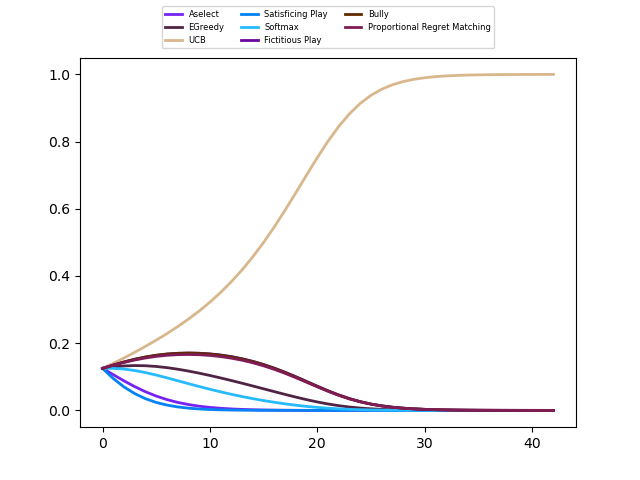
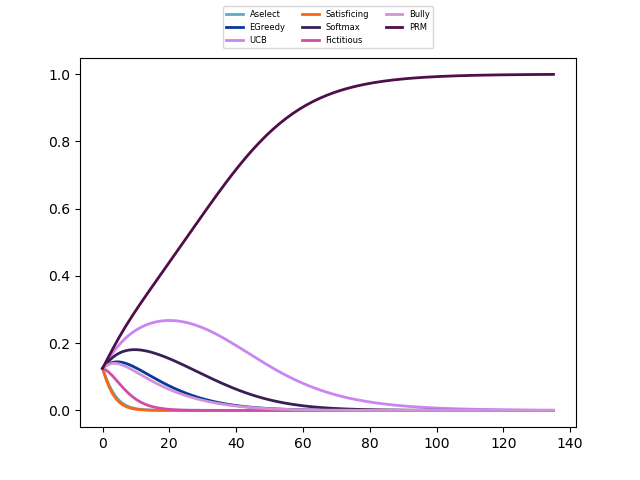
Project done, minor refinements needed

diff --git a/GrandTable.py b/GrandTable.py
@@ -95,42 +95,25 @@ class GrandTable:
         path = path = os.path.dirname(__file__) + "\\grand_tables\\" + filename + ".txt"
         f = open(path, "w+")
 
-        f.write("\\begin{tabular}{|" + "l|" * (len(self.col_strategies)+2) + "}\n")
+        f.write("\\begin{tabular}{|" + "c|" * (len(self.col_strategies)+2) + "}\n")
         f.write("\\hline\n")
 
         header = ""
         for strat in self.col_strategies:
-            header += " & " + strat.name
-        header += " & MEAN \\\\ \\hline \n"
+            header += " & \\textit{" + strat.name + "}"
+        header += " & \\textbf{MEAN} \\\\ \\hline \n"
         f.write(header)
 
         for i, row in enumerate(self.grand_table):
             # Add the name of the strategy to the row.
-            out = self.row_strategies[i].name
+            out = "\\textit{" + self.row_strategies[i].name + "}"
             for score in row:
-                out += " & " + str(round(score, 3))
-            out += " & " + str(round(mean(row), 3)) + " \\\\ \\hline \n"
+                out += " & " + str(round(score, 2))
+            out += " & " + str(round(mean(row), 2)) + " \\\\ \\hline \n"
             f.write(out)
 
         f.write("\\end{tabular}")
-
-
-
-
-        '''
-        \begin{tabular}{|l|l|l|l|l|l|l|l|l|l|}
-        \hline
-         &  &  &  &  &  &  &  &  &  \\ \hline
-         &  &  &  &  &  &  &  &  &  \\ \hline
-         &  &  &  &  &  &  &  &  &  \\ \hline
-         &  &  &  &  &  &  &  &  &  \\ \hline
-         &  &  &  &  &  &  &  &  &  \\ \hline
-         &  &  &  &  &  &  &  &  &  \\ \hline
-         &  &  &  &  &  &  &  &  &  \\ \hline
-         &  &  &  &  &  &  &  &  &  \\ \hline
-         &  &  &  &  &  &  &  &  &  \\ \hline
-        \end{tabular}
-        '''
+        f.close()
 
 
     # Methods to play all games for the specified number of rounds and handle the restarts, can go here.
@@ -151,6 +134,7 @@ class GrandTable:
                     game.initialize(game.matrix_suite)
                     if restart > 0:  # The first matrix is already initialised
                         game.matrix_suite.generate_new_payoff_matrix()
+                        game.initialize(game.matrix_suite)
                     payoff = game.play(self.rounds)
                     self.grand_table[row_strategy][col_strategy] += payoff
 

diff --git a/Strategies.py b/Strategies.py
@@ -248,7 +248,7 @@ class Satisficing(Strategy):
     past_payoffs: List[Payoff]
 
     def __init__(self):
-        self.name = "Satisficing Play"
+        self.name = "Satisficing"
 
     def initialize(self, matrix_suite: MatrixSuite, player: str) -> None:
         self.actions = matrix_suite.get_actions(player)
@@ -333,7 +333,7 @@ class FictitiousPlay(Strategy):
     matrix_suite: MatrixSuite
 
     def __init__(self):
-        self.name = "Fictitious Play"
+        self.name = "Fictitious"
 
     def initialize(self, matrix_suite: MatrixSuite, player: str) -> None:
         # TODO: description
@@ -405,7 +405,7 @@ class ProportionalRegretMatching(Strategy):
     matrix_suite: MatrixSuite
 
     def __init__(self):
-        self.name = "Proportional Regret Matching"
+        self.name = "PRM"
 
     def initialize(self, matrix_suite: MatrixSuite, player: str) -> None:
         # TODO: description
@@ -475,7 +475,7 @@ class EFictitiousPlay(Strategy):
     payoff_history: List[Payoff]
 
     def __init__(self):
-        self.name = "EFictitiousPlay"
+        self.name = "EFictitious"
 
     def initialize(self, matrix_suite: MatrixSuite, player: str) -> None:
         # TODO: description

diff --git a/ReplicatorDynamic.py b/ReplicatorDynamic.py
@@ -28,18 +28,18 @@ class ReplicatorDynamic:
         self.grand_table = grand_table
         self.rounds = []
 
-    def to_graph(self, name: str):
+    def to_graph(self, name: str): # TODO: fix overlapping
         """Visualize the evolution of proportions."""
         i = 0
         path = os.path.dirname(__file__)
-
+        plt.figure()
         for strategy in self.history:
             plt.plot(self.rounds, strategy, linewidth=2, color=np.random.rand(3,),
                      label=self.grand_table.row_strategies[i].name)
             i += 1
         plt.legend(loc='upper center', ncol=3, bbox_to_anchor=(0.5, 1.15), prop={'size': 6})
         plt.savefig(path + "\\img\\" + name + ".png")
-        plt.show()
+        #plt.show()
 
 
 

diff --git a/Main.py b/Main.py
@@ -58,8 +58,7 @@ def game_session(game_id: int, matrix_suite: MatrixSuite, strategies: List[Strat
     print("Gambit test result:")
     Nash.nash_equilibria(strategies, grand_table)
 
-game_session(1, FixedMatrixSuite(), strategies, proportions, 1)
-'''
+
 # FIRST GAME:Standard set of strategies, Fixed Matrix Suite
 game_session(1, FixedMatrixSuite(), strategies, proportions, 9)
 # SECOND GAME: Extended set of strategies, Fixed Matrix Suite
@@ -74,7 +73,7 @@ game_session(5, RandomFloatMatrixSuite(), strategies, proportions, 19)
 game_session(6, RandomFloatMatrixSuite(), strategies_ext, proportions_ext, 19)
 
 
-
+'''
 
 ############# TEST AREA
 print("BEGIN  ########################################\n")

diff --git a/MatrixSuite.py b/MatrixSuite.py
@@ -81,7 +81,14 @@ class MatrixSuite(metaclass=abc.ABCMeta):
     def get_payoffs(self, row_action: int, col_action: int) -> Tuple[float, float]:
         """Return the payoffs of both players given their respective actions.
         """
-        return self.payoff_matrix[row_action][col_action]
+        value = 0.0
+        try:
+            value = self.payoff_matrix[row_action][col_action]
+        except:
+            print(self.payoff_matrix)
+            print(str(row_action), str(col_action))
+
+        return value
 
     def get_max_payoff(self, player: int) -> float:
         """Return the maximum possible payoff for the specified player.
